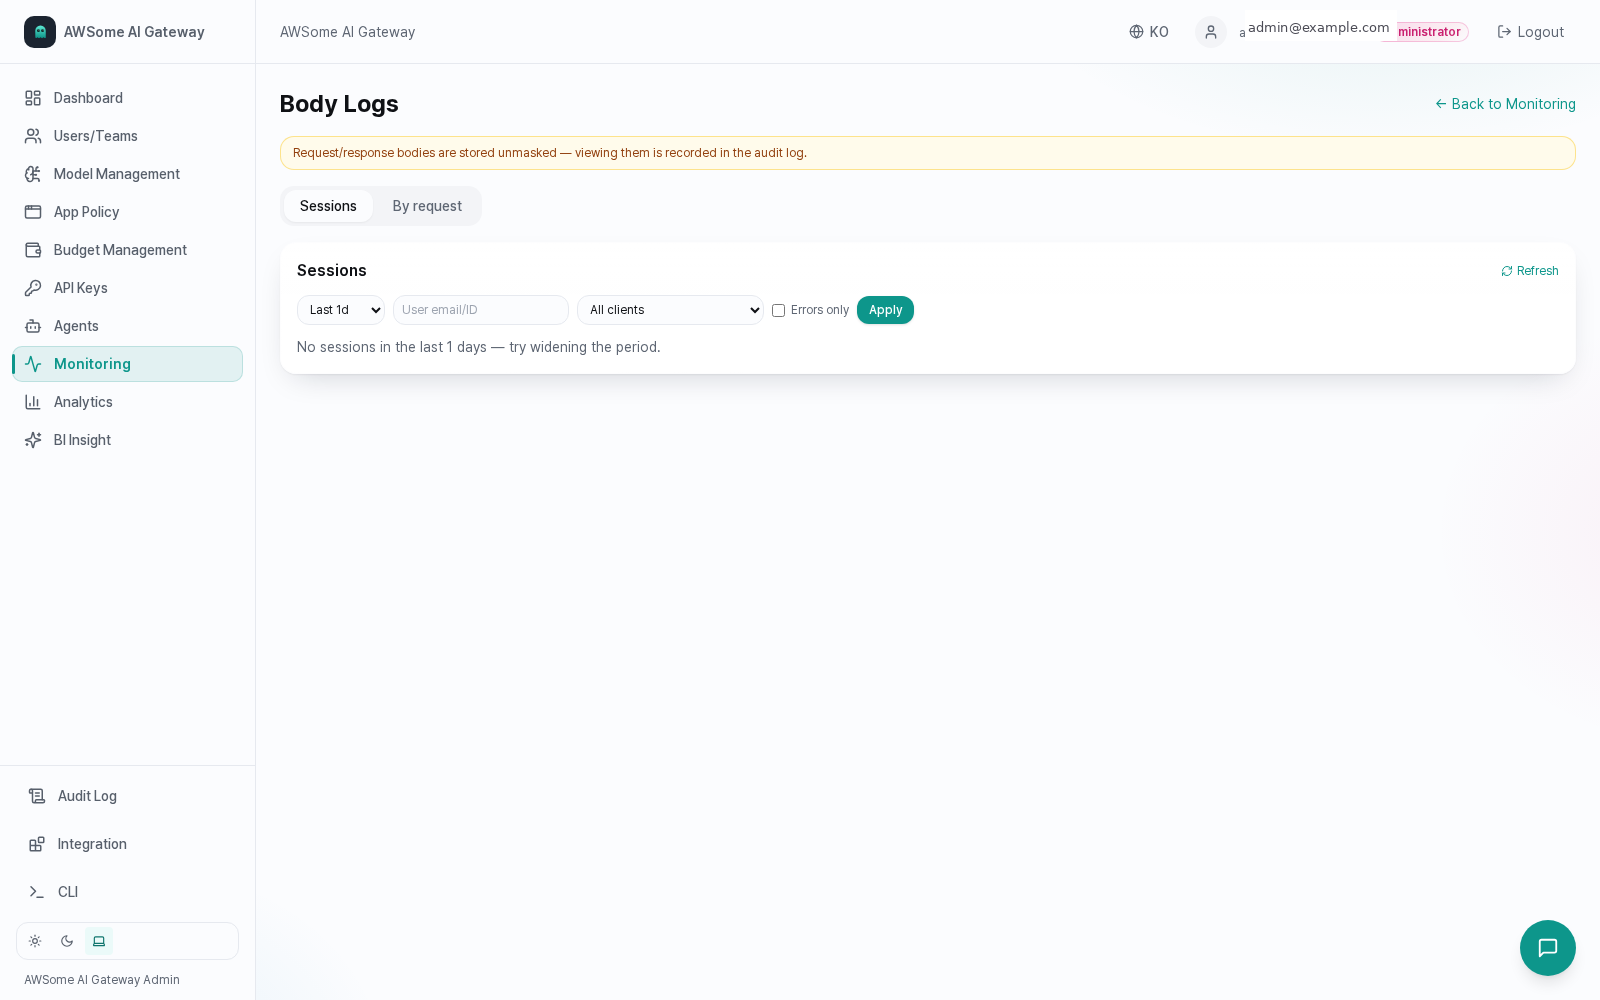
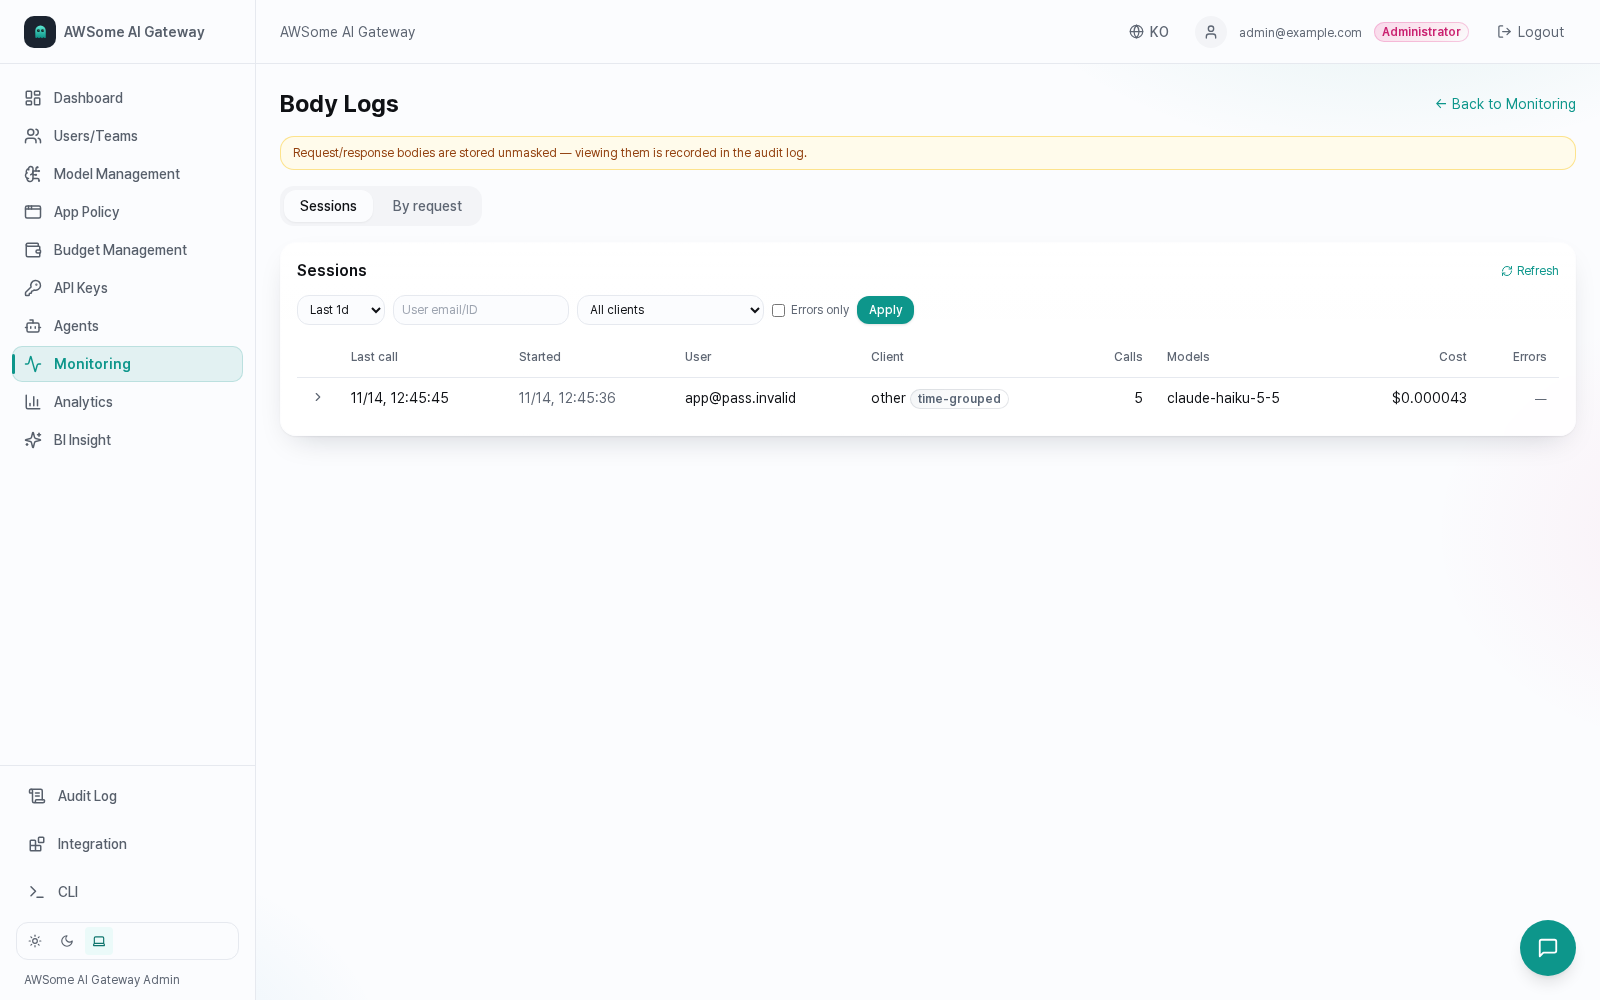
docs(NDS): guides — real body-log captures + agent detail analytics
Body logs: enabled the feature, issued a temporary agent key on
app@pass.invalid, and drove real traffic (4x200 + stream + 404) so
captures show live data: sessions view, expanded time-grouped session
(5 calls w/ latency/cost/tokens), by-request filtered list, and the
Request & Response Bodies dialog showing unmasked prompt+response.
Agent detail: captured /agents/{userId} KPIs, issued-keys inventory,
usage-by-model, daily trend, token mix. monitoring.md and agents.md
rewritten around the new captures. Test key revoked via Unflag after
capture; plaintext VK discarded.

Generated with [Devin](https://devin.ai)

diff --git a/projects/awsome-ai-gateway/docs/NDS/guides/monitoring.md b/projects/awsome-ai-gateway/docs/NDS/guides/monitoring.md
@@ -57,15 +57,32 @@ request metadata.
 
 **Route:** `/monitoring/body-logs` · **Role:** Administrator
 
-Browser over the captured request/response bodies — two views:
+Browser over the captured request/response bodies — available only
+while body logging is on (the toggle above). Two views:
 
-- **Sessions** — grouped by session ID, filterable by period, user, and
-  client.
-- **By request** — individual captured bodies.
+**Sessions** — calls grouped into time-bucketed sessions per user.
+Filter by period, user email/ID, client, or **Errors only**:
 
-![Body Logs browser](screenshots/33-monitoring-bodylogs-nav.png)
+![Body Logs — sessions](screenshots/13-monitoring-body-logs.png)
 
-![Body Logs](screenshots/13-monitoring-body-logs.png)
+Expanding a session lists its individual calls — timestamp, model,
+latency, cost, and in→out token counts — with a **Load bodies** link
+to pull the stored payloads:
+
+![Body Logs — session expanded](screenshots/51-bodylogs-session-expanded.png)
+
+**By request** — a flat list of recent captured calls, filterable by
+user. The **Request ID lookup** at the top is the tool for user
+reports: paste the `X-Request-Id` the caller saw to jump straight to
+that request's bodies:
+
+![Body Logs — by request](screenshots/52-bodylogs-by-request.png)
+
+**View** on a row opens the captured prompt and response — with
+**Copy JSON** / **Raw JSON** for inspection. This is what "unmasked"
+means in practice: the literal user prompt is visible:
+
+![Body viewer — request & response bodies](screenshots/53-bodylogs-request-expanded.png)
 
 Every view of a body is written to the [Audit Log](audit-log.md) as a
 `View body log` event — the top banner states this explicitly because

diff --git a/projects/awsome-ai-gateway/docs/NDS/guides/agents.md b/projects/awsome-ai-gateway/docs/NDS/guides/agents.md
@@ -47,13 +47,26 @@ Click a row to open the agent's [detail view](#agent-detail).
 
 ## Agent detail
 
-**Route:** `/agents/{userId}` · per-agent usage and key inventory.
+**Route:** `/agents/{userId}` · per-agent usage and key inventory —
+click a row in the list to open it.
 
-- **Usage KPIs** — cost, request count, tokens, and last-request latency
-  for the selected period.
-- **Keys** — every long-lived key on the account: prefix, status,
-  issued/expires timestamps, last request, per-key requests and cost.
-- **Usage by model** — cost share across the models this agent called.
+![Agent detail — usage KPIs and issued keys](screenshots/54-agent-detail.png)
+
+- **Usage KPIs** — cost, request count (succeeded/errors/timeouts),
+  tokens (in/out), and average + last-request latency for the selected
+  period (This month / Last month / Select period). Historical usage
+  is backfilled by key lifetime; live attribution starts from when the
+  feature began recording.
+- **Issued keys** — every long-lived key on the account: prefix,
+  status (Active/Expired/Revoked), issued/expires timestamps, last
+  request in the period, and per-key requests and cost — the table to
+  check which key is driving spend.
+
+![Agent detail — usage by model and token mix](screenshots/55-agent-detail-keys.png)
+
+- **Usage by model** — requests/tokens/cost/share per model this agent
+  called, plus a daily cost trend (Cost or Tokens) and a token-mix
+  donut (input/output/cache).
 
 Use this view to confirm a repair worked — a healthy key has a recent
 **last request** and non-zero counters.
